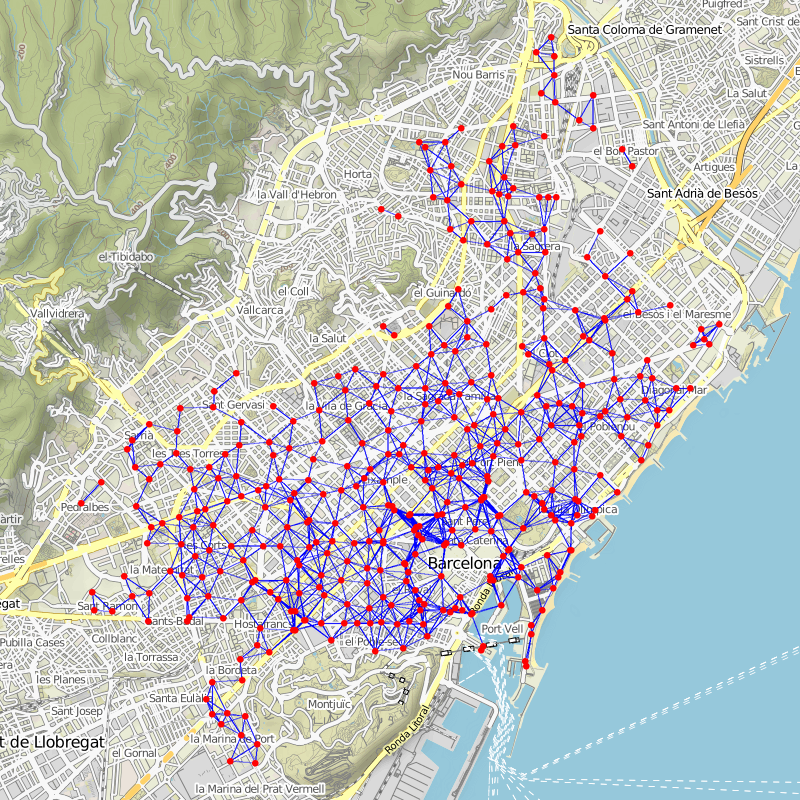
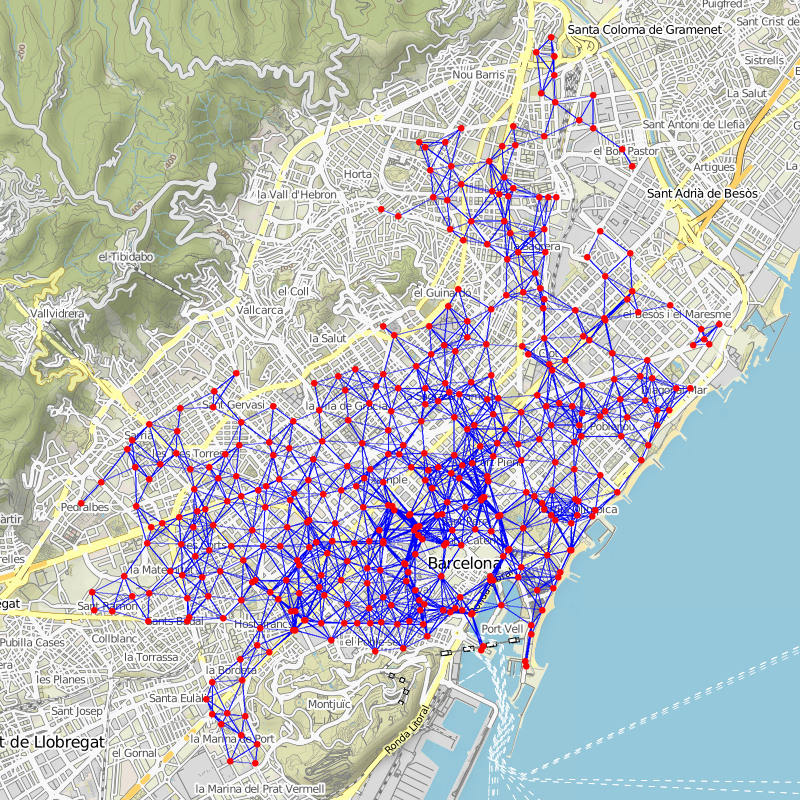
Optimizado al máximo

diff --git a/data.py b/data.py
@@ -4,7 +4,8 @@ from pandas import DataFrame
 from haversine import haversine
 import matplotlib.pyplot as plt
 from staticmap import StaticMap, CircleMarker, Line
-
+from geopy.geocoders import Nominatim
+from jutge import read, read_line
 
 def data():
     distance = float(input("Distance "))
@@ -14,29 +15,28 @@ def data():
         index='station_id')
     G = nx.Graph()
     for st in bicing.itertuples():
-        G.add_node(st.Index, pos=(st.lon, st.lat))
-    pos=nx.get_node_attributes(G,'pos')
+        G.add_node((st.lon, st.lat))
     for nod in G.nodes():
         for nod2 in G.nodes():
-            coord1 = (pos[nod][1],pos[nod][0])
-            coord2 = (pos[nod2][1],pos[nod2][0])
-            if (haversine(coord1,coord2) <= distance):
-                G.add_edge(nod,nod2)
-
+            coord1 = (nod[1],nod[0])
+            coord2 = (nod2[1],nod2[0])
+            if (haversine(coord1,coord2) <= distance/1000 and haversine(coord1,coord2) != 0):
+                G.add_edge(nod,nod2,weight=float(haversine(coord1,coord2)/10))
     return G
 
 
 def print_map(G):
     m = StaticMap(800, 800)
     #diccionari with the position of the nodes
-    pos=nx.get_node_attributes(G,'pos')
+
     #print nodes on the map
     for n in G.nodes():
-        marker = CircleMarker(pos[n], 'red', 6)
+        marker = CircleMarker(n, 'red', 6)
         m.add_marker(marker)
     #print edges on the map
-    for n2 in G.edges():
-        coordinates = [pos[n2[0]],pos[n2[1]]]
+    for n2 in G.edges(data=True):
+        print(n2[2]['weight'])
+        coordinates = [n2[0],n2[1]]
         line = Line(coordinates, 'blue', 1)
         m.add_line(line)
     image = m.render()
@@ -49,15 +49,62 @@ def addressesTOcoordinates(addresses):
         address1, address2 = addresses.split(',')
         location1 = geolocator.geocode(address1 + ', Barcelona')
         location2 = geolocator.geocode(address2 + ', Barcelona')
-        return (location1.latitude,
-                location1.longitude), (location2.latitude, location2.longitude)
+        return (location1.longitude,
+                location1.latitude), (location2.longitude, location2.latitude)
     except BaseException:
         return None
 
-def shortest_path(G):
-    print(nx.shortest_path(G, source = 1, target = 4))
+def route(G):
+    print("Introdueix direccio: ")
+    cami = read_line()
+    coord1,coord2 = addressesTOcoordinates(cami)
+    found1 = False
+    found2 = False
+    for nod in G.nodes():
+        if nod == coord1: found1 = True
+        if nod == coord2: found2 = True
+        if (found1 and found2): break
+    if (not found1):
+        G.add_node(coord1)
+        for nod2 in G.nodes():
+            inv = (coord1[1],coord1[0])
+            inv2 = (nod2[1],nod2[0])
+            G.add_edge(coord1,nod2,weight=float(haversine(inv,inv2)/4))
+
+    if (not found2):
+        G.add_node(coord2)
+        for nod2 in G.nodes():
+            inv = (coord2[1],coord2[0])
+            inv2 = (nod2[1],nod2[0])
+            G.add_edge(coord2,nod2,weight=float(haversine(inv,inv2)/4))
+    path = nx.dijkstra_path(G, coord1, coord2, weight='weight')
+    m = StaticMap(800, 800)
+    #print nodes on the map
+    for n in G.nodes():
+        marker = CircleMarker(n, 'red', 6)
+        m.add_marker(marker)
+    for i in range(len(path)-1):
+        coordinates = [path[i], path[i+1]]
+        line = Line(coordinates, 'blue', 1)
+        m.add_line(line)
+    image = m.render()
+    image.save('path.png')
+    print("Map created")
+
+def main():
+    G = data()
+    accio = read(str)
+    while accio is not None:
+        if (accio == "start"): print("Hello")
+        elif (accio == "authors"): authors()
+        elif (accio == "graph"): graph(G)
+        elif (accio == "nodes"): print(G.number_of_nodes())
+        elif (accio == "edges"): print(G.number_of_edges())
+        elif (accio == "components"): print(nx.number_connected_components(G))
+        elif (accio == "plotgraph"): plotgraph(G)
+        elif (accio == "route"): route(G)
+        accio = read(str)
 
 
 
-print_map(data())
-shortest_path(G)
+main()
